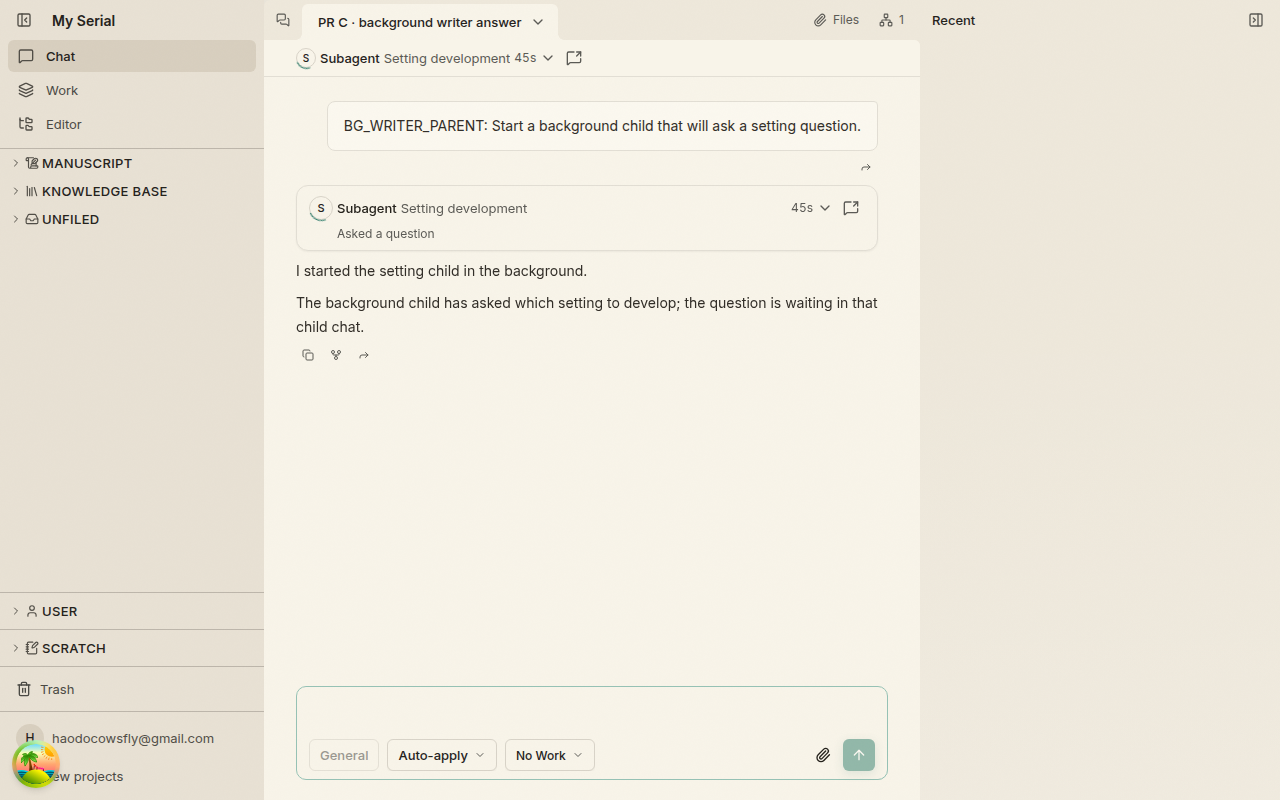
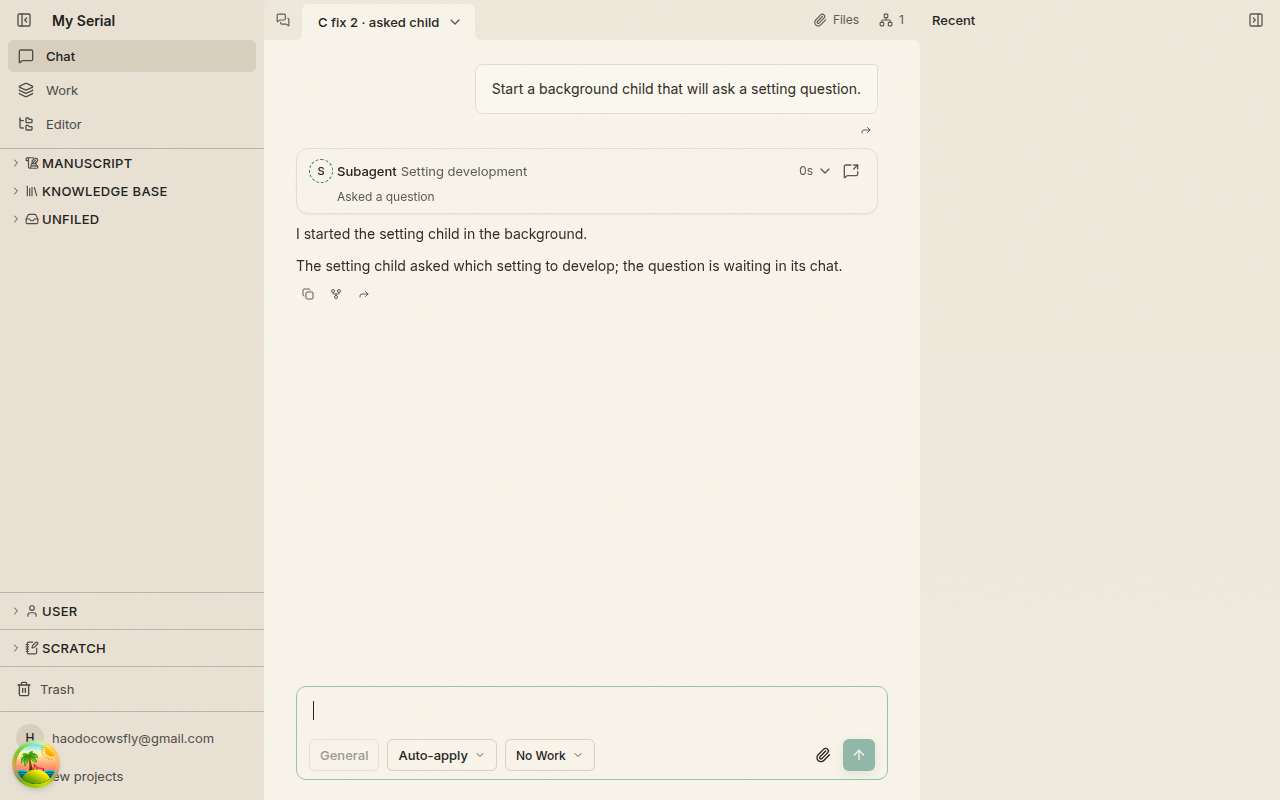
test(qa): cover lineage cancellation, crash windows and redelivery for subagent asks
Adds the `ask.parentAnswer.afterCommit` crash hook (a parent's answer and its
`direct` continuation row committed, nothing admitted yet), updates the subagent
steps of `docs/qa/ask.md` for the Stop/turn-cancel ownership rule, and replaces
the PR screenshots that changed: the asked card and header, the card's
asked -> running -> final states, the passing three-level chain, and Stop ending a
parked child (renamed from the round-one failure captures).

Changed region(s): [[0.2188, 0.0625, 0.6875, 0.4375], [0.25, 0.0, 0.4062, 0.0312]]

diff --git a/apps/server/server/domains/runtime/asks/ask-service.ts b/apps/server/server/domains/runtime/asks/ask-service.ts
@@ -66,7 +66,7 @@ export interface AskService {
   }): Promise<AskAnswerResult>;
   /**
    * Resolves exactly the ask named by a parent message; never searches for a newer
-   * ask. `replayed`: this submission had already answered it.
+   * ask. A replay of the same submission answers ok without a second continuation.
    */
   answerFromParent(input: {
     parentThreadId: ThreadId;
@@ -77,7 +77,7 @@ export interface AskService {
     delivery: AskResolvedBody["delivery"];
     /** The parent's forwarded ask this answer relays. */
     relayFor?: string;
-  }): Promise<AskAnswerResult & { replayed?: boolean }>;
+  }): Promise<AskAnswerResult>;
   expireDue(now?: Date, limit?: number): Promise<number>;
   cancelOpen(threadId: ThreadId, askId: string): Promise<AskAnswerResult>;
   /** Joins a thread lifecycle transaction; claims the ask before its thread lock. */
@@ -327,7 +327,8 @@ export function createAskService(deps: {
           ...(input.relayFor ? { relayFor: input.relayFor } : {}),
         },
       });
-      return result.ok && replayed ? { ...result, replayed: true } : result;
+      if (result.ok && !replayed) await testHook("ask.parentAnswer.afterCommit");
+      return result;
     },
     async expireDue(now = new Date(), limit = 100) {
       const due = await deps.repos.asks.listOpenDueBy(now, limit);

diff --git a/apps/server/server/shared/test-hooks.ts b/apps/server/server/shared/test-hooks.ts
@@ -56,6 +56,8 @@ const TEST_HOOK_POINTS = [
   "ask.pending",
   /** An answer, result block, completed asking turn, and continuation committed together. */
   "ask.answer.afterCommit",
+  /** A parent's answer and its `direct` continuation row committed; nothing has admitted it. */
+  "ask.parentAnswer.afterCommit",
 ] as const;
 export type TestHookPoint = (typeof TEST_HOOK_POINTS)[number];
 

diff --git a/docs/qa/ask.md b/docs/qa/ask.md
@@ -171,10 +171,12 @@ scripts cannot interpolate the ids returned by an earlier tool call.
    original ask binding.
 7. Forward a descendant's question so the root also has an open ask. Cancel the
    root asking turn with `./mf thread cancel "$root" --turn "$rootAskingTurn"`.
-   Do not use chat Stop on an idle root; it is a no-op and does not exercise
-   ancestor cancellation. PASS: every open ask in that subtree becomes
-   cancelled, including children absent from the live session map, and no
-   continuation starts.
+   PASS: every open ask in the subtrees that turn's execution spawned becomes
+   cancelled, including children absent from the live session map, each parked
+   child's card and `spawn_status` read cancelled, and no continuation starts. A
+   background child spawned in an earlier root turn keeps its open question.
+   Then press Stop on the root, even while it is idle. PASS: that earlier child is
+   cancelled too; Stop ends the whole subtree.
 8. Hold a background child's continuation with a slow mock step. PASS: the same
    parent card moves from “Asked a question” while the ask is open, to running
    as soon as the continuation starts, to its final outcome. The primary chat
@@ -182,3 +184,22 @@ scripts cannot interpolate the ids returned by an earlier tool call.
 9. Open a forwarded question in the primary chat at 390 px wide. PASS: the
    takeover attributes the question as `@child asks: …`; the options, own-answer
    field, Skip and countdown remain usable.
+10. Park a middle child on a question while its background leaf runs a 40 s mock
+    step, then press Stop on the root. PASS within about two seconds: the leaf's
+    report is `cancelled`, the middle's ask is cancelled, both cards and
+    `spawn_status` read cancelled, the middle's inbox has no pending notice, and
+    no middle turn starts after Stop. Repeat with a middle that finishes instead
+    of asking: its running and parked leaves end the same way.
+11. Crash windows. Start the stack with
+    `HOOK_CRASH_AT=ask.parentAnswer.afterCommit HOOK_CRASH_ARM=<file>`, arm it,
+    and answer a forwarded question. PASS after the worker restarts: the child's
+    `direct` `ask_resolved` row is still there, the relay replays, and the parent's
+    result carries the child's continuation report. Separately, `kill -9` the
+    server while that child continuation runs, then restart the stack with the
+    same environment (`pnpm dev:restart` drops it). PASS: the continuation settles
+    `failed` (`orphaned`), and the parent's replayed relay carries that report.
+12. Redelivery. Set a consumed `ask_resolved` row back to undelivered
+    (`UPDATE thread_inbox_messages SET delivered_at = NULL WHERE id = …`), for a
+    plain child question and for a forwarded middle. PASS: the wake sweep admits a
+    second continuation report for the same ask, acknowledges the row, emits no
+    `wake.failed`, and a later writer message to that child still runs.
